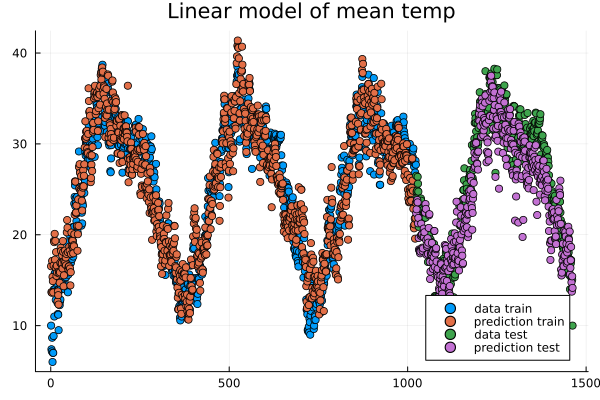
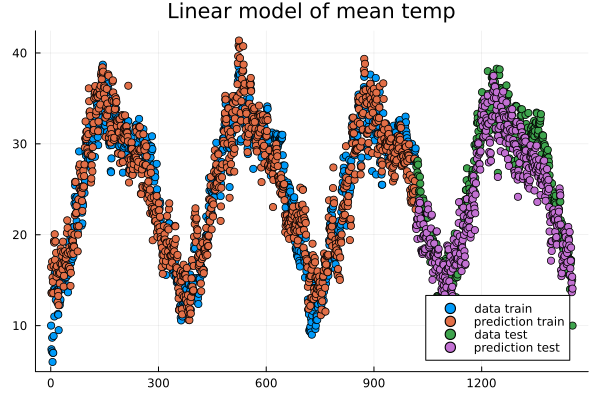
update

diff --git a/content/regression.rst b/content/regression.rst
@@ -531,7 +531,8 @@ blog post *Forecasting the weather with neural ODEs* found `here
    plottitles = ["meantemp" "humidity" "wind_speed" "meanpressure"]
    plotylabels =  ["C°" "g/m^3" "km/h" "hPa"]
    # color=[1 2 3 4] gives default colors
-   plot(M, layout=(4,1), color=[1 2 3 4], legend=false, title=plottitles, xlabel="time (days)", ylabel=plotylabels, size=(800,800))
+   plot(M, layout=(4,1), color=[1 2 3 4], legend=false, title=plottitles,
+   xlabel="time (days)", ylabel=plotylabels, size=(800,800))
 
 .. figure:: img/climate_plots_first.png
    :align: center
@@ -554,14 +555,14 @@ The mean pressure data field seems to contain some unreasonably large values. Le
    plottitles = ["meantemp" "humidity" "wind_speed" "meanpressure"]
    plotylabels =  ["C°" "g/m^3" "km/h" "hPa"]
 
-   # remove mean pressures above 1050 hPa and below 950 hPa
-   pressure_mod = [ abs(x-1000) < 50 ? x : NaN for x in df_train.meanpressure]
-   # pressure_mod = [ (950 < x) & (x < 1050) ? x : NaN for x in df_train.meanpressure]
+   df_train[df_train.meanpressure .< 950,:meanpressure] .= NaN
+   df_train[1050 .< df_train.meanpressure,:meanpressure] .= NaN
 
-   Mmod = [df_train.meantemp df_train.humidity df_train.wind_speed pressure_mod]
+   M = [df_train.meantemp df_train.humidity df_train.wind_speed df_train.meanpressure]
 
    # color=[1 2 3 4] gives default colors
-   plt = plot(Mmod, layout=(4,1), color=[1 2 3 4], legend=false, title=plottitles, xlabel="time (days)", ylabel=plotylabels, size=(800,800))
+   plt = plot(M, layout=(4,1), color=[1 2 3 4], legend=false, title=plottitles,
+   xlabel="time (days)", ylabel=plotylabels, size=(800,800))
 
    display(plt)
 
@@ -602,8 +603,8 @@ neural network in Julia using the package Flux.
    # data_path = "C:/Users/davidek/julia_kurser/DailyDelhiClimateTrain.csv"
    df = CSV.read(data_path, DataFrame)
 
-   # clean up data
-   df[:,:meanpressure] = [ abs(x-1000) < 50 ? x : mean(df.meanpressure) for x in df.meanpressure]
+   # clean up data, drop rows
+   df = filter(:meanpressure => x -> 950 < x < 1050, df)
 
    topredict = "mean temp"
    y = df.meantemp
@@ -698,13 +699,13 @@ neural network in Julia using the package Flux.
 
 .. code-block:: text
 
-   Epoch: 997, rmse train/test: 2.5457162727794627 2.976820601944131
-   Epoch: 998, rmse train/test: 2.5455743026361106 2.976745963344427
-   Epoch: 999, rmse train/test: 2.5454323141134845 2.9766709624395236
-   Epoch: 1000, rmse train/test: 2.545290506223516 2.976596231134482
+   Epoch: 997, rmse train/test: 2.321958298905668 2.8623720534428925
+   Epoch: 998, rmse train/test: 2.3217000741076217 2.862347448996424
+   Epoch: 999, rmse train/test: 2.321443844030064 2.8623211237184116
+   Epoch: 1000, rmse train/test: 2.3211893059494684 2.8622934109353464
    mean temp
-   rmse train: 2.545290506223516
-   rmse_test: 2.976596231134482
+   rmse train: 2.3211893059494684
+   rmse_test: 2.8622934109353464
 
 It is interesting to animate the predictions during the training of the neural network. This will also give us a quick look at animation in Julia.
 
@@ -751,7 +752,7 @@ Let us also check how well a linear model is doing in this case. It turns out it
    df = CSV.read(data_path, DataFrame)
 
    # clean up data
-   df[:,:meanpressure] = [ abs(x-1000) < 50 ? x : mean(df.meanpressure) for x in df.meanpressure]
+   df = filter(:meanpressure => x -> 950 < x < 1050, df)
 
    topredict = "mean temp"
    y = df.meantemp
@@ -807,8 +808,9 @@ Let us also check how well a linear model is doing in this case. It turns out it
 .. code-block:: text
 
    mean temp
-   rmse train: 2.654280437247272
-   rmse_test: 3.1429118309689383
+   rmse train: 2.61686030150272
+   rmse_test: 3.047019624551555
+
 
 .. figure:: img/climate_linear_reg.png
    :align: center

diff --git a/content/linear-algebra.rst b/content/linear-algebra.rst
@@ -125,7 +125,7 @@ Picking out elements or parts of vectors and matrices can be done with sclicing 
    ones(5) # [1,1,1,1,1]
    ones(5,5) # 5x5-matrix of ones
 
-..code-block:: text
+.. code-block:: text
 
    julia> A
    3×3 Matrix{Int64}:
